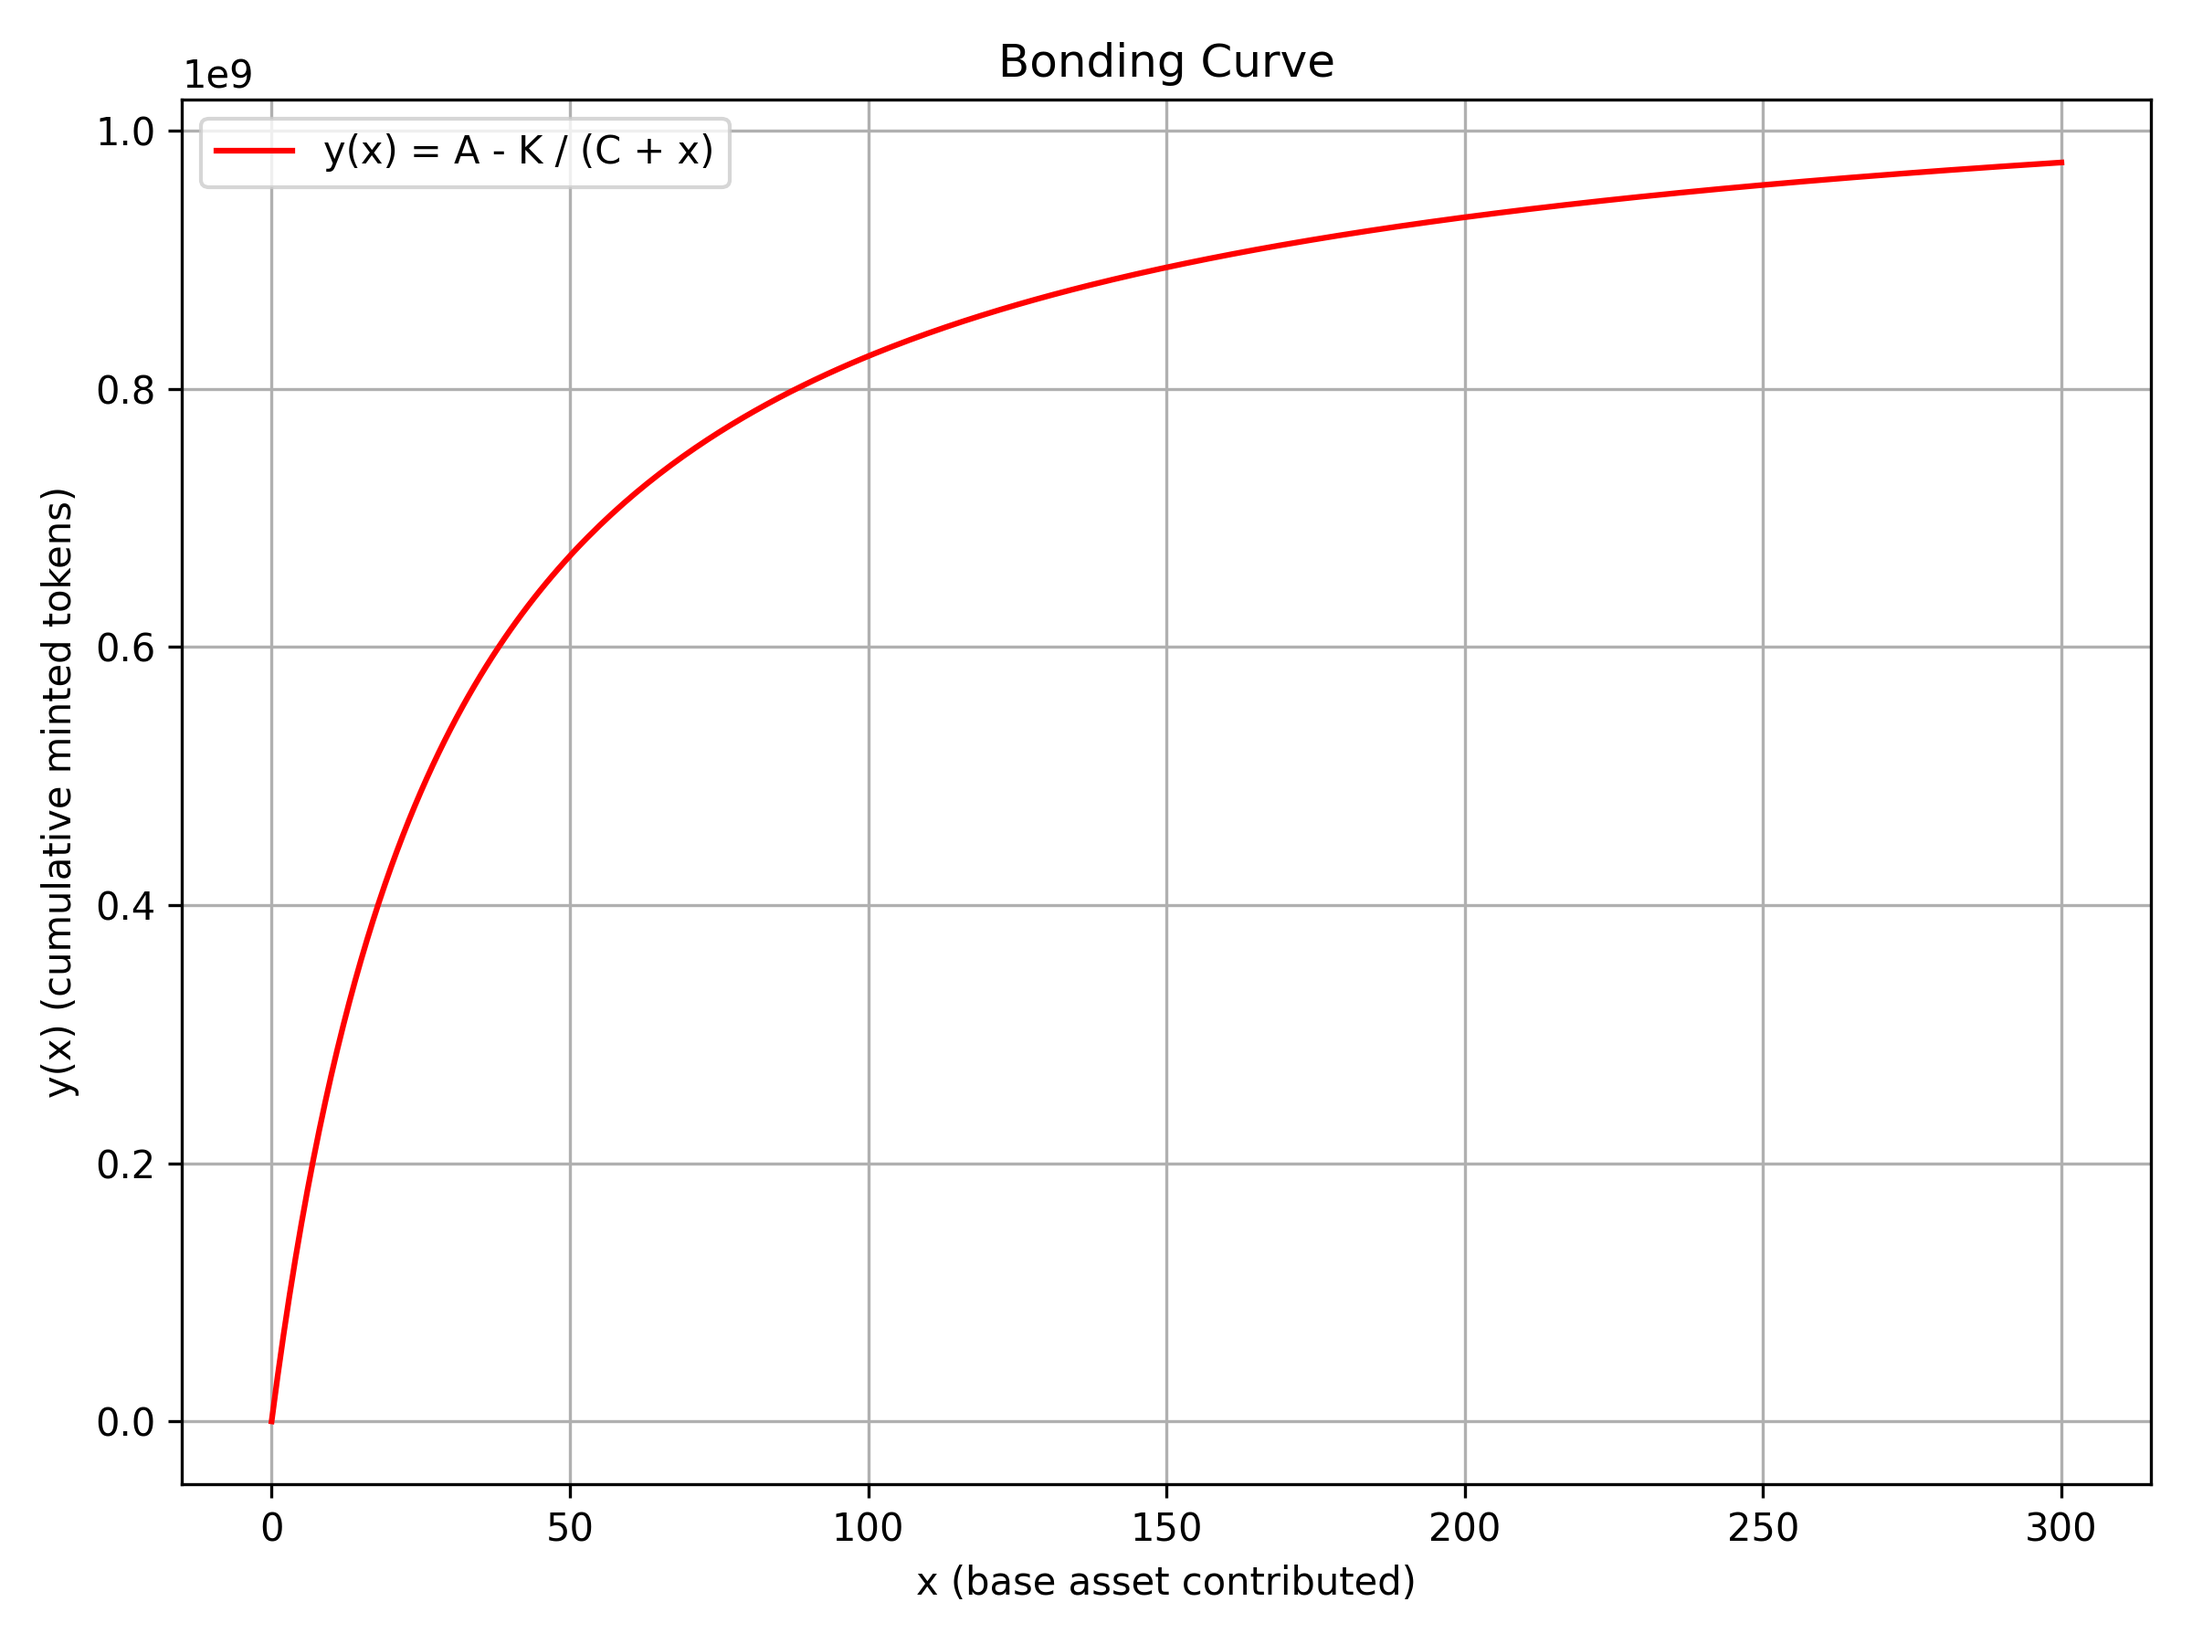
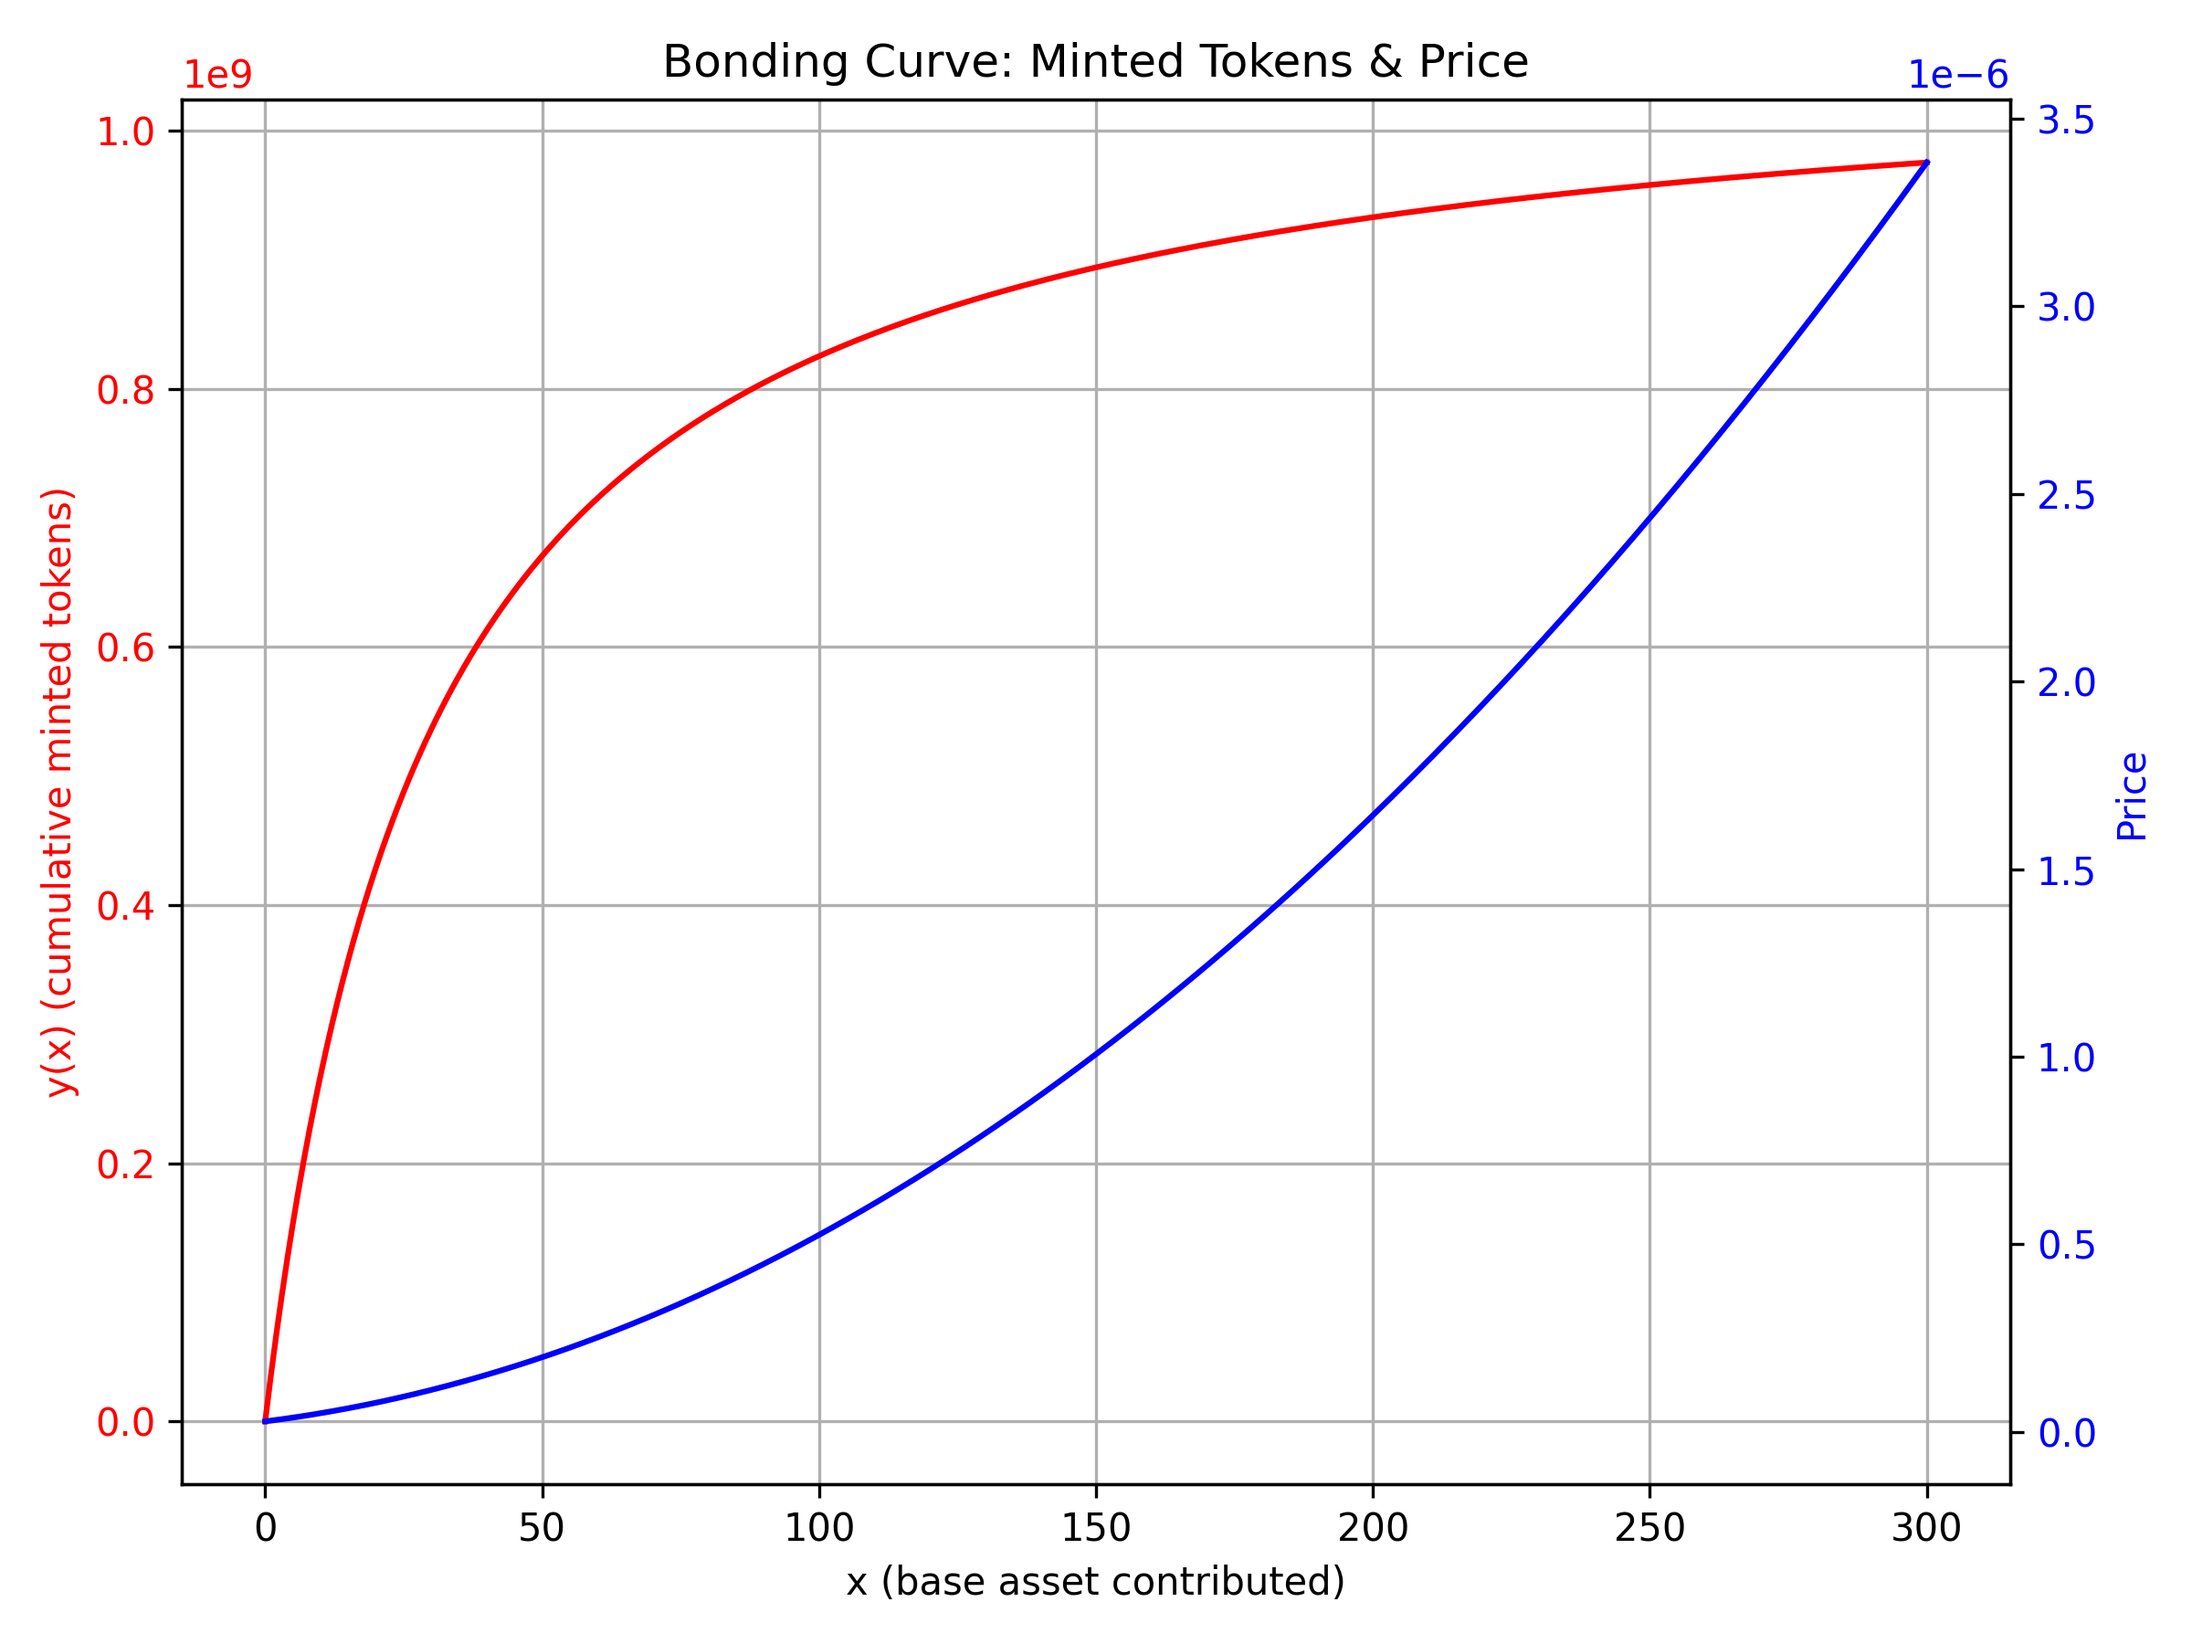
Update plot_bonding_curve script to include price dynamics curve

diff --git a/qa/plot_bonding_curve.py b/qa/plot_bonding_curve.py
@@ -3,30 +3,49 @@ import numpy as np
 
 def y_of_x(x, A, K, C):
     """
-    Bonding curve formula:
-    y(x) = A - K / (C + x)
+    Bonding curve formula
     """
     return A - K / (C + x)
 
+def price_of_x(x, K, C):
+    """
+    Marginal price formula:
+    """
+    return (C + x)**2 / K
+
 def main():
+    # Parameters for the bonding curve
     A = 1_073_000_191.0  # Maximum number of tokens
     K = 32_190_005_730.0  # Curve "speed" parameter
     C = 30.0  # Virtual pool / offset
 
     x_min, x_max = 0.0, 300.0
     x_vals = np.linspace(x_min, x_max, 301)
+
+    # Calculate y(x) and price(x)
     y_vals = [y_of_x(x, A, K, C) for x in x_vals]
+    price_vals = [price_of_x(x, K, C) for x in x_vals]
 
-    plt.figure(figsize=(8, 6))
-    plt.plot(x_vals, y_vals, label="y(x) = A - K / (C + x)", color="red")
-    plt.title("Bonding Curve")
-    plt.xlabel("x (base asset contributed)")
-    plt.ylabel("y(x) (cumulative minted tokens)")
-    plt.grid(True)
-    plt.legend()
+    fig, ax1 = plt.subplots(figsize=(8, 6))
+
+    # Plot y(x) — cumulative minted tokens
+    color_y = "red"
+    ax1.set_xlabel("x (base asset contributed)")
+    ax1.set_ylabel("y(x) (cumulative minted tokens)", color=color_y)
+    ax1.plot(x_vals, y_vals, color=color_y, label="Minted tokens")
+    ax1.tick_params(axis='y', labelcolor=color_y)
+    ax1.grid(True)
+
+    # Plot price(x) on a secondary Y-axis
+    ax2 = ax1.twinx()
+    color_p = "blue"
+    ax2.set_ylabel("Price", color=color_p)
+    ax2.plot(x_vals, price_vals, color=color_p, label="Price")
+    ax2.tick_params(axis='y', labelcolor=color_p)
+
+    plt.title("Bonding Curve: Minted Tokens & Price")
     plt.tight_layout()
-
-    plt.savefig("bonding_curve.png", dpi=300)
+    plt.savefig("bonding_curve.png", dpi=70)
     plt.show()
 
 if __name__ == "__main__":
